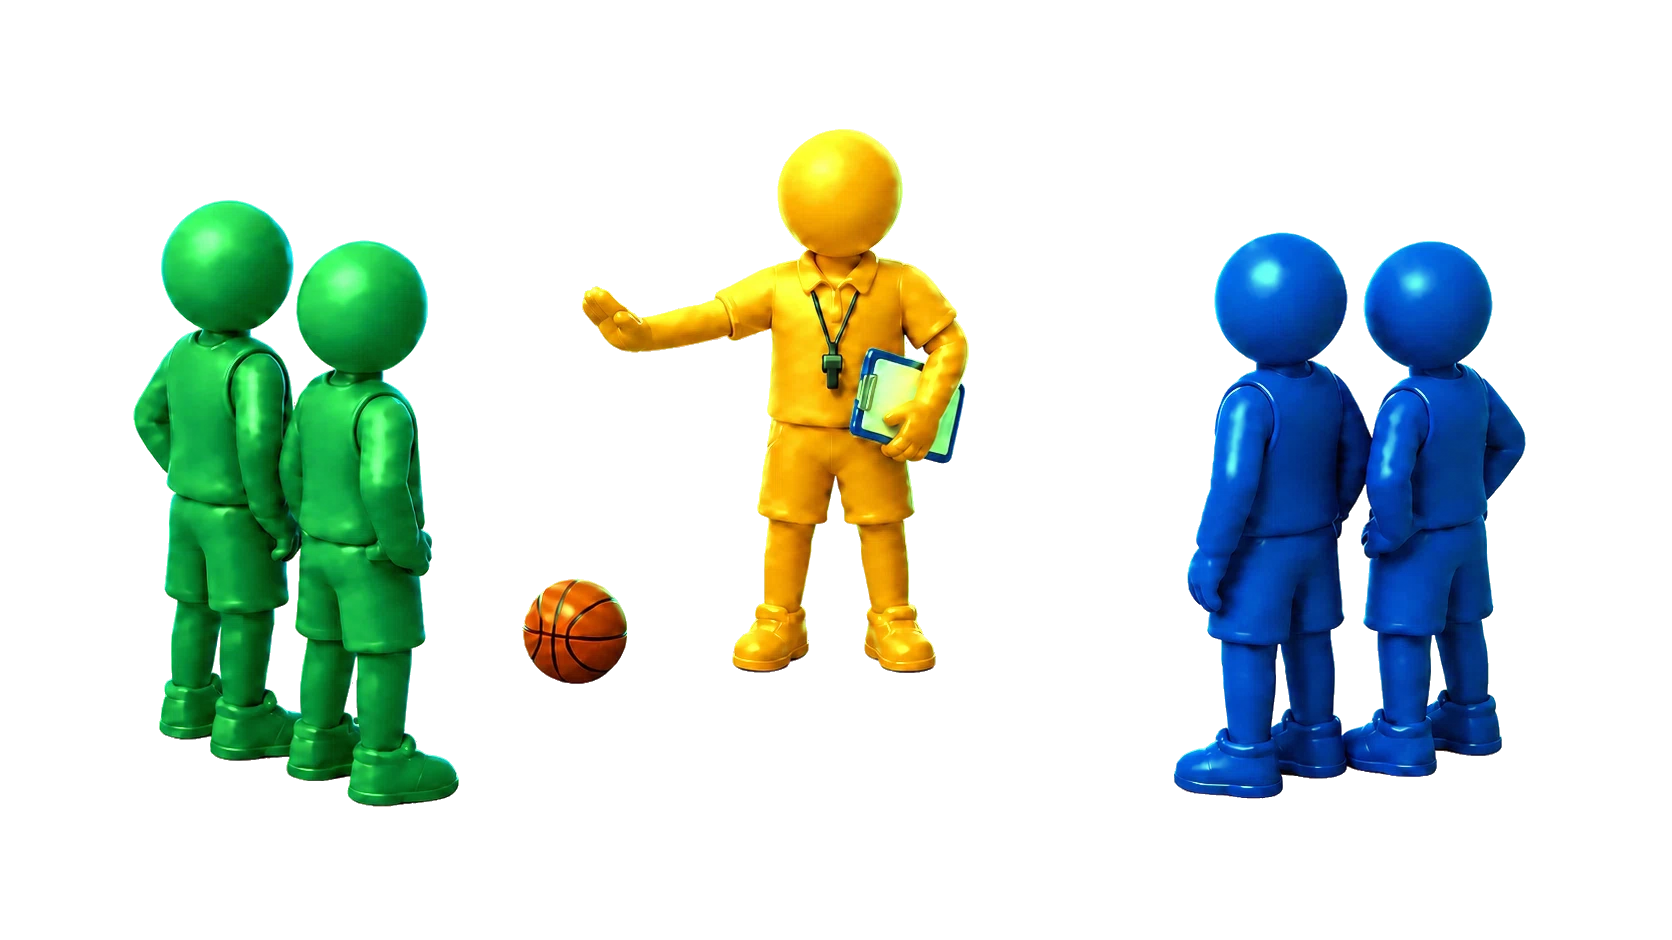
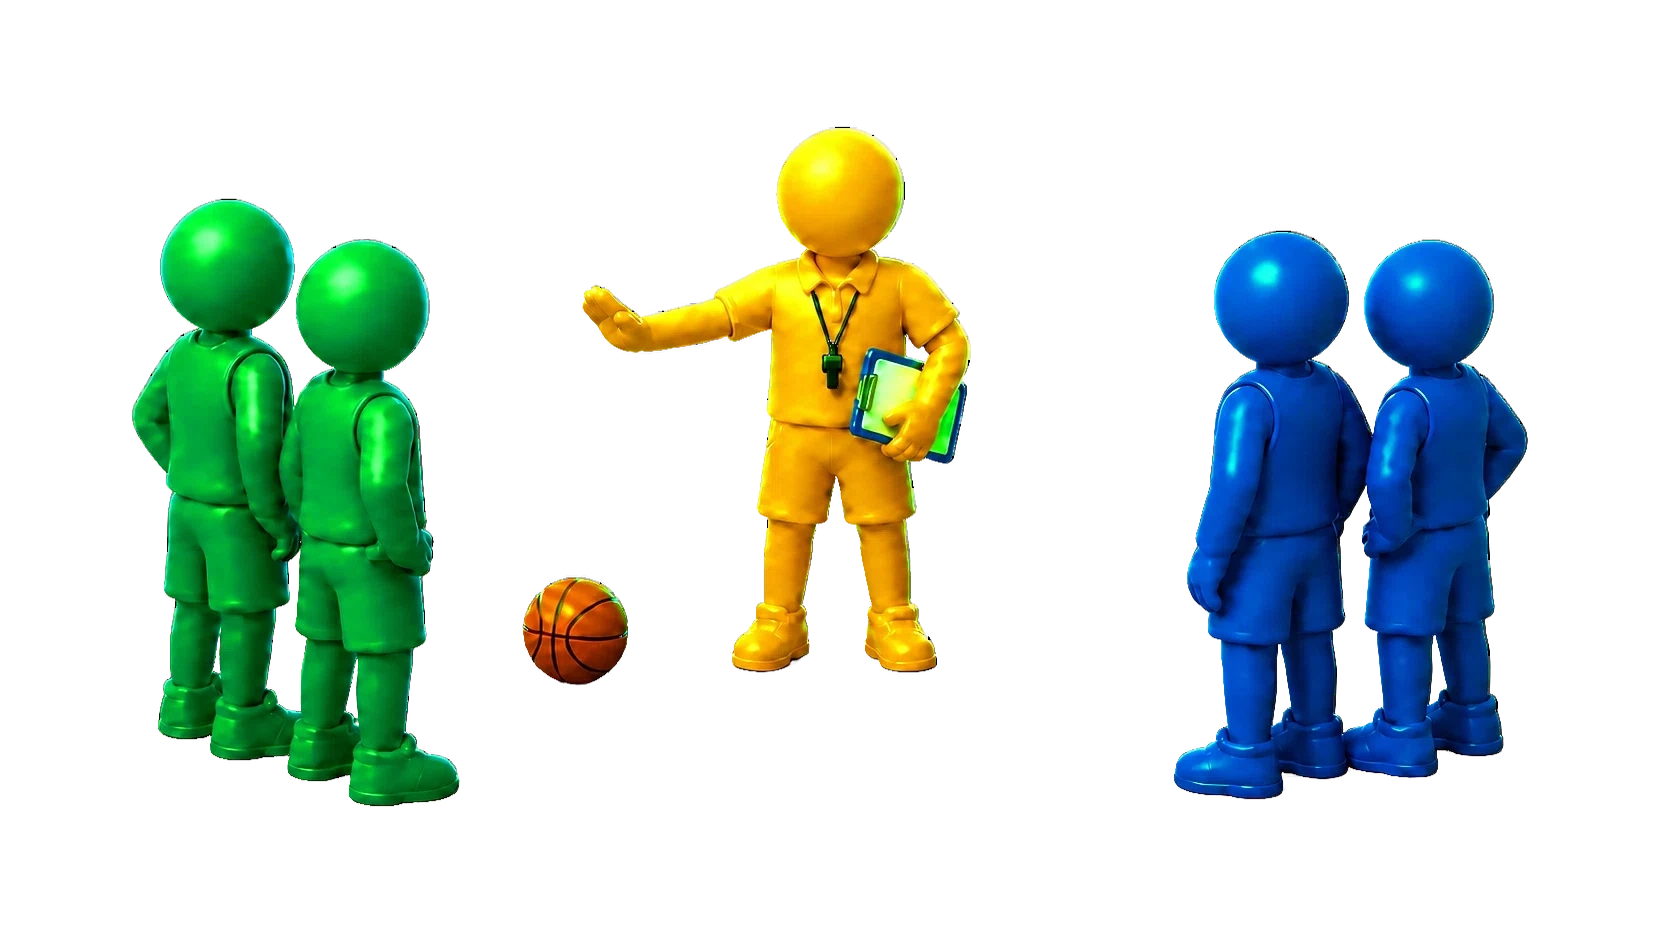
fix(rulebook): restore illustration foreground opacity

diff --git a/src/pages/RefereeRulebook.jsx b/src/pages/RefereeRulebook.jsx
@@ -12,7 +12,7 @@ import {
   REFEREE_STAT_GUIDELINES,
 } from "../lib/refereeRulebook.js";
 
-const RULEBOOK_ASSET_VERSION = "20260728-3";
+const RULEBOOK_ASSET_VERSION = "20260729-1";
 const RULEBOOK_SOURCES = [
   {
     label: "FIBA 경기규칙 2024",

diff --git a/docs/design-system.md b/docs/design-system.md
@@ -2256,6 +2256,7 @@ UI 수정 전:
 2. 쉬운 규칙은 현재 유효한 정책만 6단계로 요약하며, 상세 규칙과 다른 권한·용어·예외를 만들지 않는다.
 3. 농구 골대 삽화의 백보드는 흰색 판으로 표시한다. 농구공은 끊기거나 겹친 선 없이 표준 곡선형 8패널 심을 표시한다.
 4. 룰북 dark/light WebP를 함께 갱신하고, 배포 이미지는 `assetUrl()`을 거쳐 R2에서 제공한다.
+5. 배경 투명화는 전경 인물·공·아이콘의 알파, 채도, 명암을 낮추지 않는다. 전경은 완전 불투명을 기준으로 유지하고 가장자리 안티앨리어싱에만 부분 알파를 사용한다.
 
 ## 현재 유효: MMR 안내 문구
 
@@ -2264,3 +2265,10 @@ UI 수정 전:
 3. 필요한 안내는 `서버 정책으로 계산`, `서버 검증 후 반영`, `상세 산식 비공개`처럼 짧게 표시한다.
 4. 대회 상세도 승인 계수·보너스 수치를 표시하지 않고 `지역 비승인 · 서버 정책 적용`, `서버 검증 후 반영`처럼 상태만 표시한다.
 5. 최고관리자 정책 편집 UI는 인증된 서버 응답을 받은 뒤에만 field를 만든다. 실제 정책 schema와 기본값을 정적 브라우저 코드에 넣지 않는다.
+
+## 현재 유효: 튜토리얼·룰북 용어 표기
+
+1. 각 독립 화면에서 MMR이 처음 나오면 `실력이 비슷한 상대를 찾고 순위를 계산하는 경기력 점수`라고 먼저 설명한다. 이후 문구에서는 MMR로 줄여 쓸 수 있다.
+2. 사용자 본문에는 `revision`, `match_record`, `personal_record`, `transaction`, `RPC`, `live` 같은 내부 식별자를 코드 글꼴이나 영문 원문으로 표시하지 않는다.
+3. 내부 용어는 `최신 결과 여부`, `경기 후 함께 확인하는 기록`, `내가 직접 쓴 기록`, `한 번에 안전하게 처리`, `현장 일반 경기`처럼 행동과 의미가 바로 보이는 한국어로 바꾼다.
+4. `로스터`, `사이드`, `픽업`처럼 서비스에서 필요한 용어는 첫 등장에 각각 `실제 참여 명단`, `이번 경기의 A팀·B팀`, `현장에서 두 편으로 나누는 방식`이라고 풀어 쓴다.
